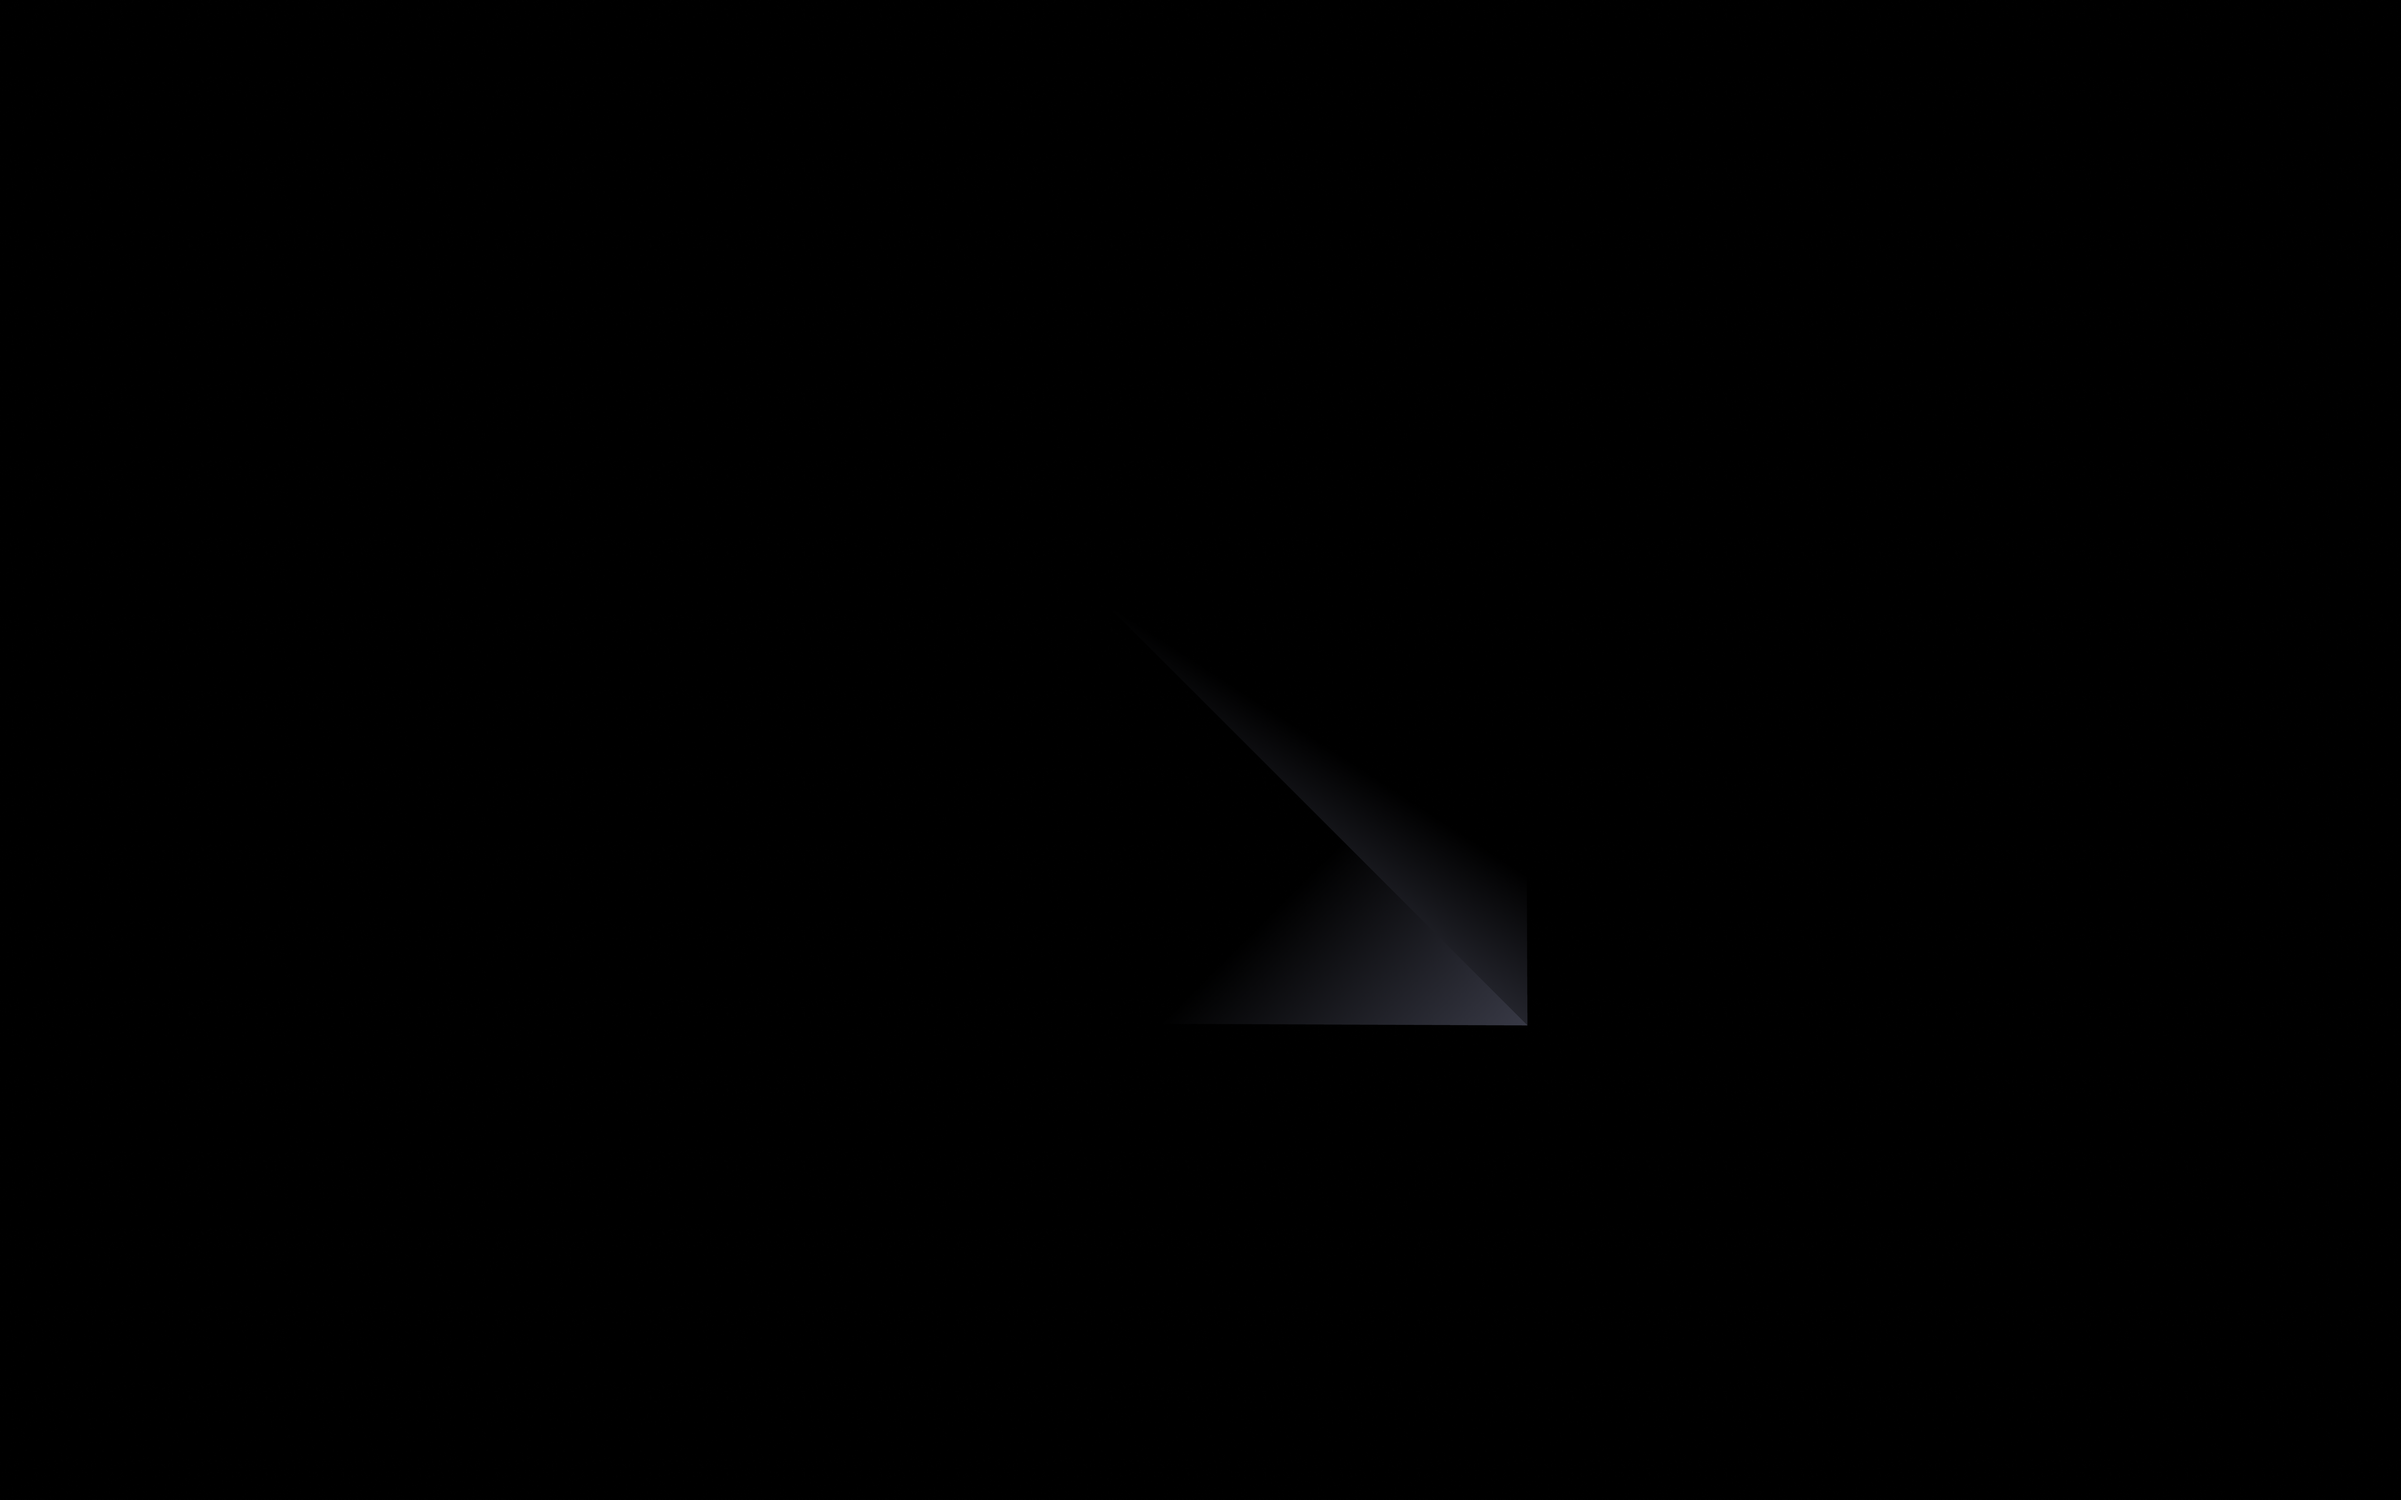
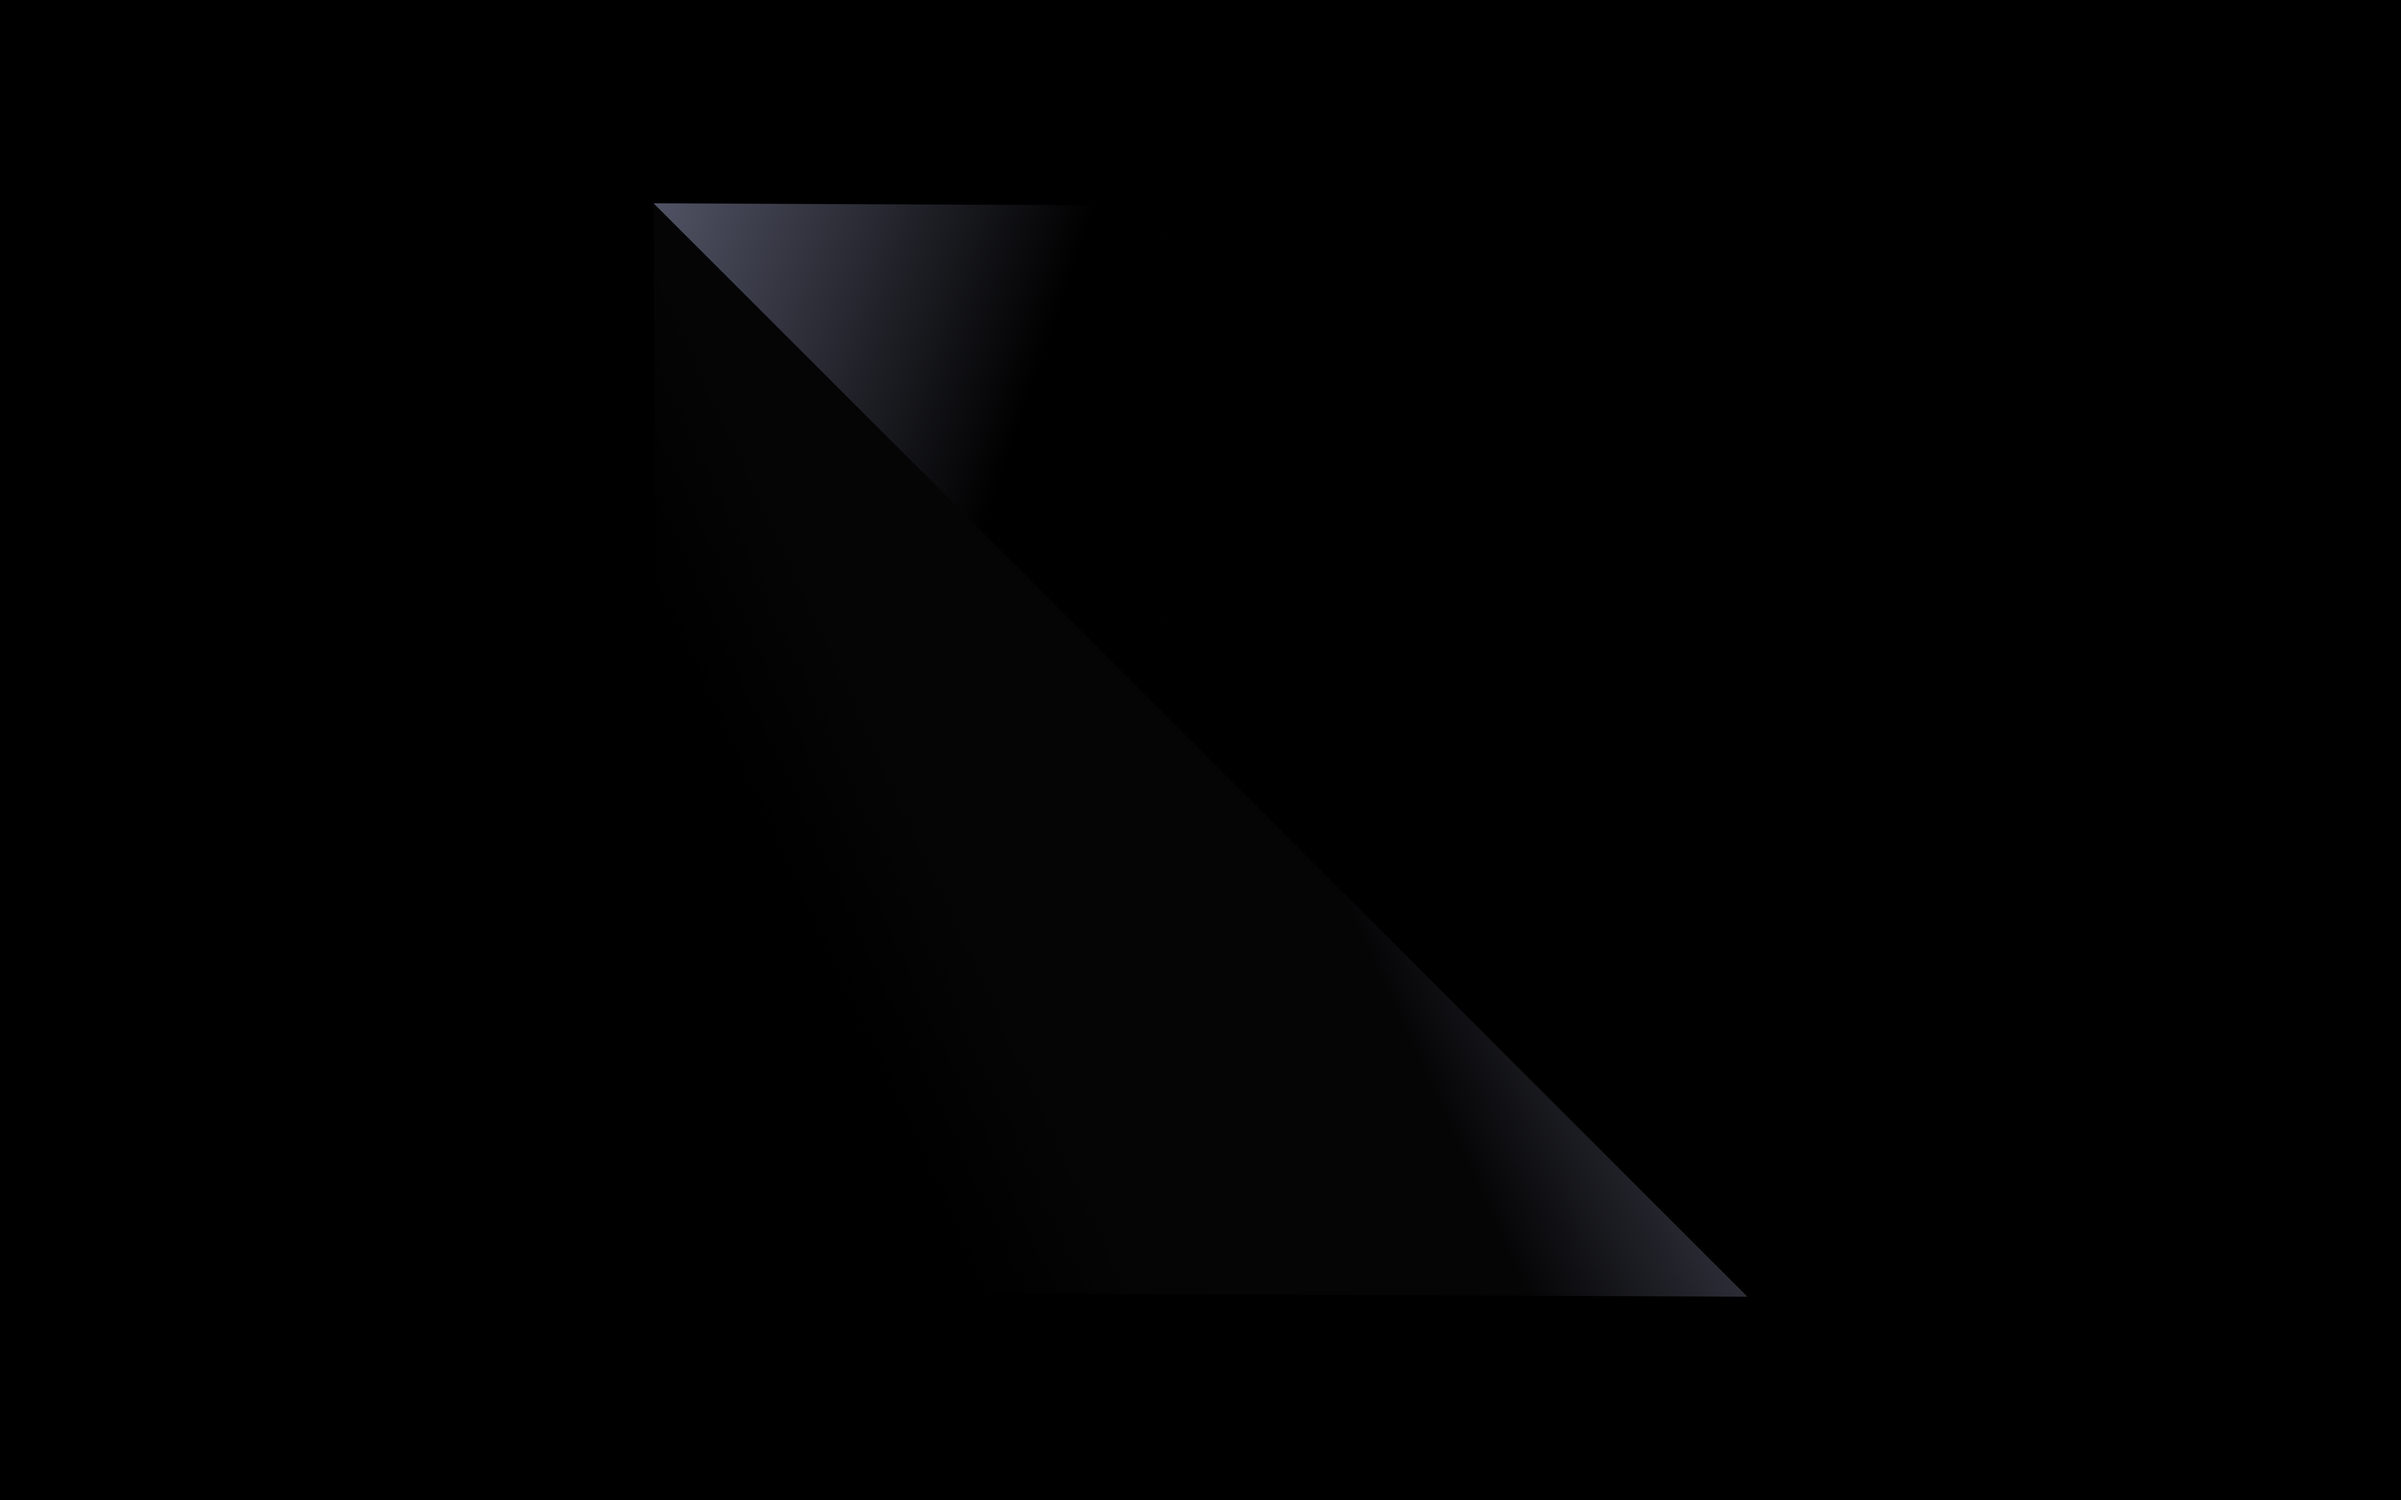
changed social art background

Changed region(s): [[0.2812, 0.1248, 0.4062, 0.312], [0.5312, 0.5616, 0.6562, 0.6864], [0.625, 0.7176, 0.7188, 0.8736]]

diff --git a/styles/globals.scss b/styles/globals.scss
@@ -126,7 +126,7 @@ div#nft-marketplace .slick-current {
   height: 100vh;
 }
 .not-found-container {
-  background-color: $black;
+  background-color: black;
   height: 100vh;
   @include flex-column-center;
   @include align-center;
